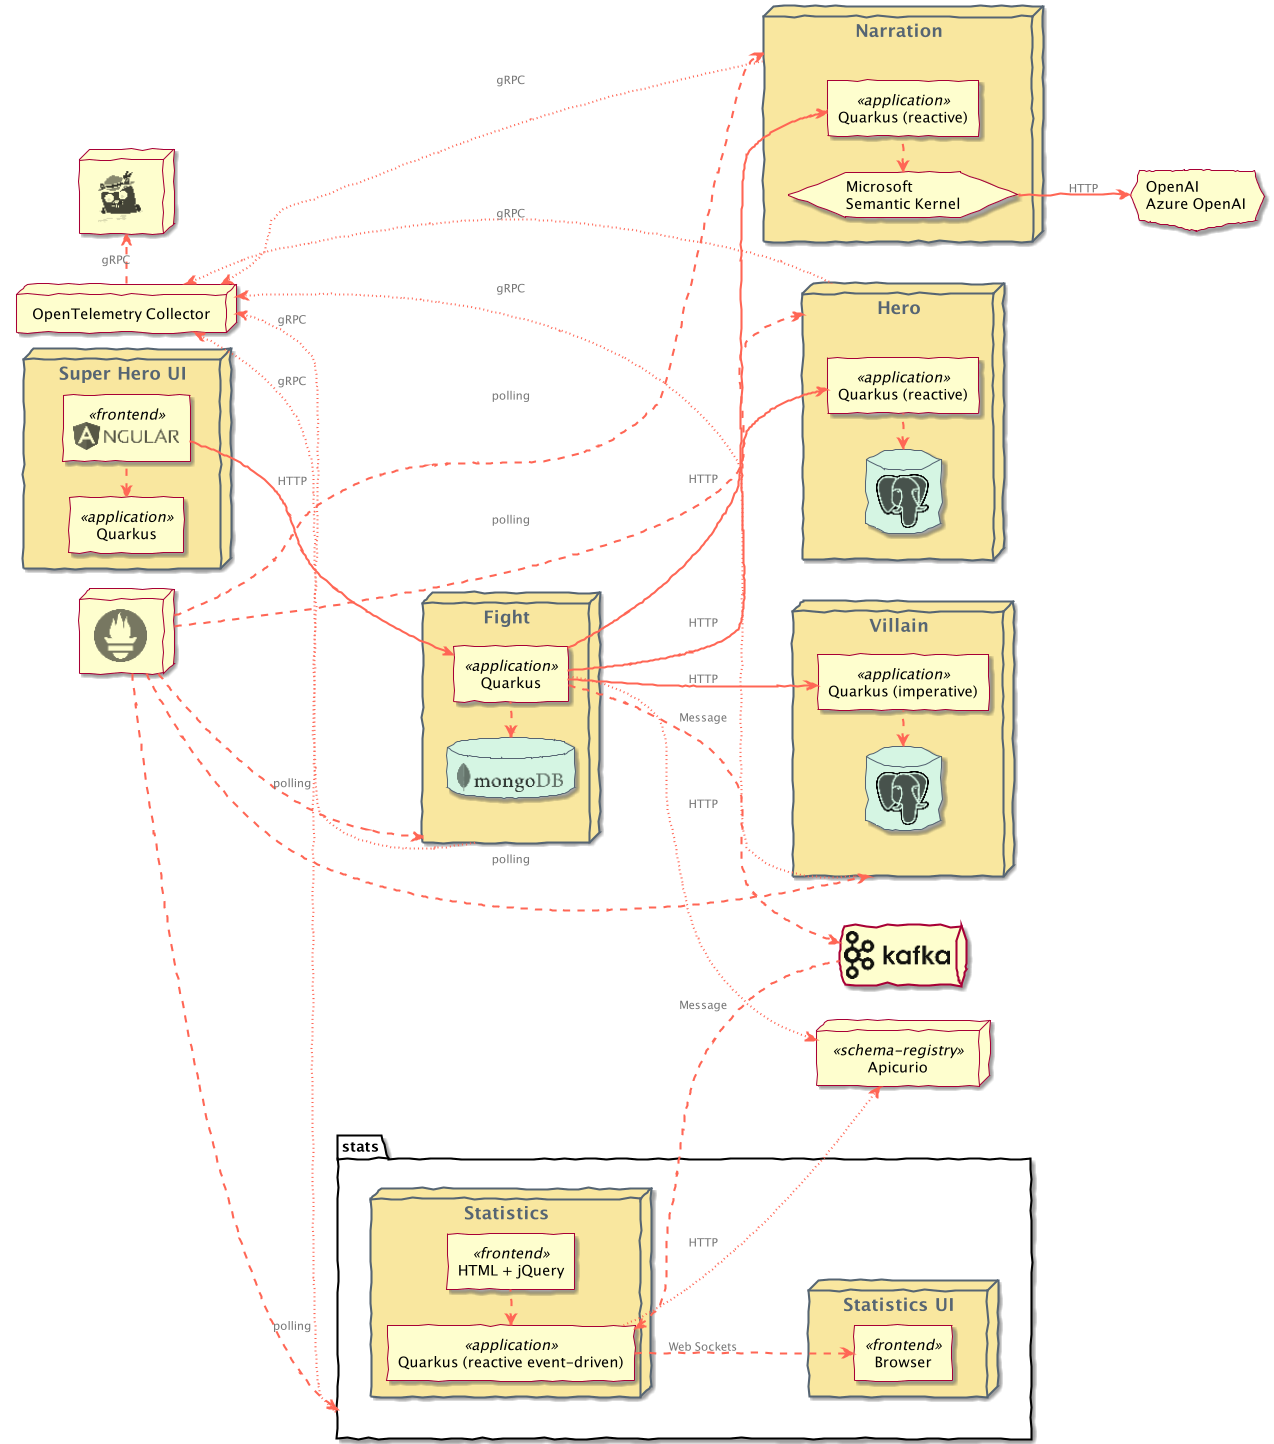
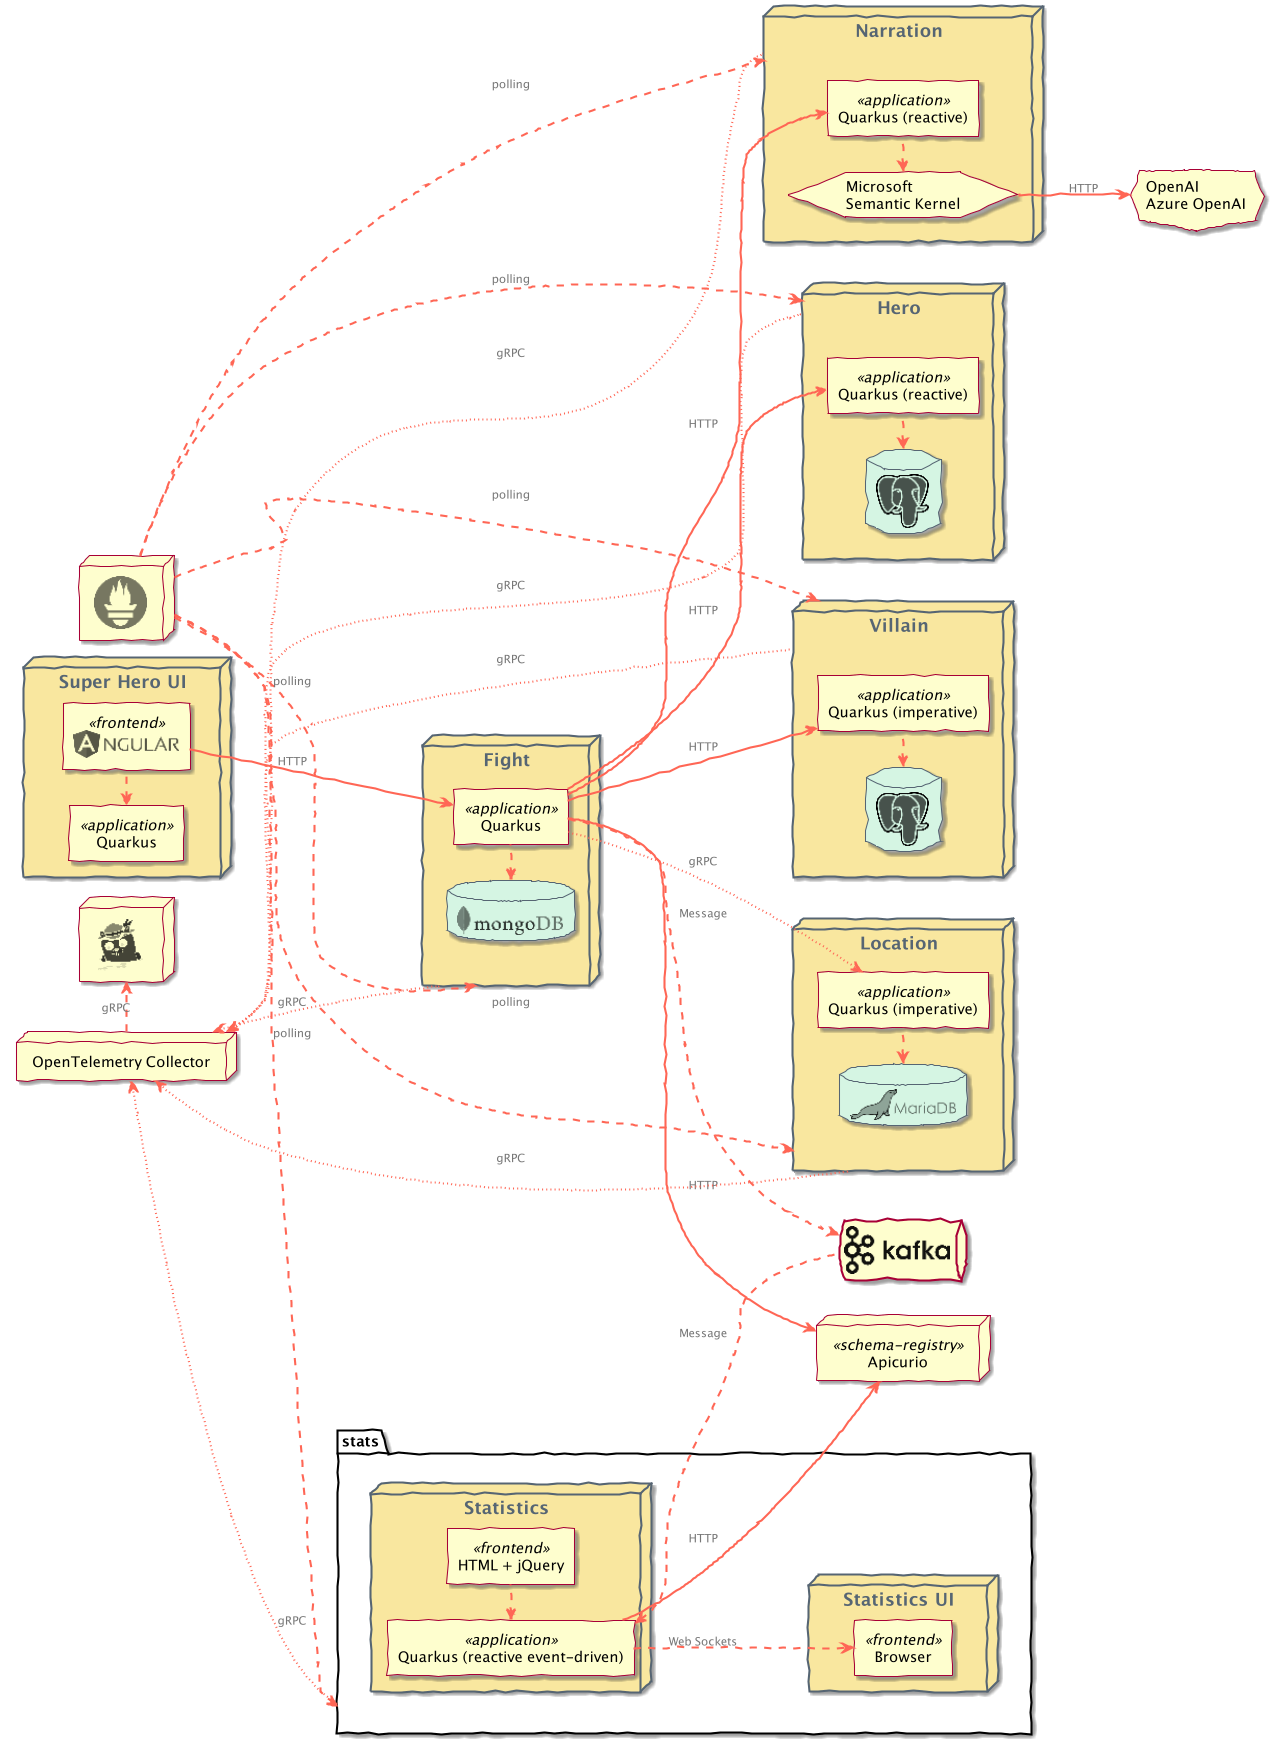
Initial connection with rest-fights

diff --git a/rest-fights/src/main/java/io/quarkus/sample/superheroes/fight/service/FightService.java b/rest-fights/src/main/java/io/quarkus/sample/superheroes/fight/service/FightService.java
@@ -26,6 +26,7 @@ import io.quarkus.sample.superheroes.fight.Fighters;
 import io.quarkus.sample.superheroes.fight.client.FightToNarrate;
 import io.quarkus.sample.superheroes.fight.client.Hero;
 import io.quarkus.sample.superheroes.fight.client.HeroClient;
+import io.quarkus.sample.superheroes.fight.client.LocationClient;
 import io.quarkus.sample.superheroes.fight.client.NarrationClient;
 import io.quarkus.sample.superheroes.fight.client.Villain;
 import io.quarkus.sample.superheroes.fight.client.VillainClient;
@@ -48,16 +49,18 @@ public class FightService {
 	private final HeroClient heroClient;
 	private final VillainClient villainClient;
   private final NarrationClient narrationClient;
+	private final LocationClient locationClient;
 	private final MutinyEmitter<io.quarkus.sample.superheroes.fight.schema.Fight> emitter;
 	private final FightConfig fightConfig;
   private final FightMapper fightMapper;
 	private final Random random = new Random();
 
-	public FightService(HeroClient heroClient, VillainClient villainClient, @RestClient NarrationClient narrationClient, @Channel("fights") MutinyEmitter<io.quarkus.sample.superheroes.fight.schema.Fight> emitter, FightConfig fightConfig, FightMapper fightMapper) {
+	public FightService(HeroClient heroClient, VillainClient villainClient, @RestClient NarrationClient narrationClient, LocationClient locationClient, @Channel("fights") MutinyEmitter<io.quarkus.sample.superheroes.fight.schema.Fight> emitter, FightConfig fightConfig, FightMapper fightMapper) {
 		this.heroClient = heroClient;
 		this.villainClient = villainClient;
     this.narrationClient = narrationClient;
-    this.emitter = emitter;
+		this.locationClient = locationClient;
+		this.emitter = emitter;
 		this.fightConfig = fightConfig;
     this.fightMapper = fightMapper;
   }
@@ -141,6 +144,20 @@ public class FightService {
     return this.narrationClient.hello()
       .invoke(hello -> Log.debugf("Got %s back from the Narration microservice", hello));
   }
+
+	@Timeout(value = 5, unit = ChronoUnit.SECONDS)
+	@Fallback(fallbackMethod = "fallbackHelloLocations")
+	@WithSpan("FightService.helloLocations")
+	public Uni<String> helloLocations() {
+		Log.debug("Pinging location service");
+		return this.locationClient.helloLocations()
+			.invoke(hello -> Log.debugf("Got %s back from the Locations microservice", hello));
+	}
+
+	Uni<String> fallbackHelloLocations() {
+		return Uni.createFrom().item("Could not invoke the Locations microservice")
+			.invoke(message -> Log.warn(message));
+	}
 
   Uni<String> fallbackHelloNarration() {
     return Uni.createFrom().item("Could not invoke the Narration microservice")

diff --git a/rest-fights/src/main/java/io/quarkus/sample/superheroes/fight/client/LocationClient.java b/rest-fights/src/main/java/io/quarkus/sample/superheroes/fight/client/LocationClient.java
@@ -1,0 +1,31 @@
+package io.quarkus.sample.superheroes.fight.client;
+
+import jakarta.enterprise.context.ApplicationScoped;
+
+import io.quarkus.grpc.GrpcClient;
+import io.quarkus.logging.Log;
+import io.quarkus.sample.superheroes.fight.client.locations.grpc.HelloReply;
+import io.quarkus.sample.superheroes.fight.client.locations.grpc.HelloRequest;
+import io.quarkus.sample.superheroes.fight.client.locations.grpc.Locations;
+
+import io.opentelemetry.api.trace.SpanKind;
+import io.opentelemetry.instrumentation.annotations.WithSpan;
+import io.smallrye.mutiny.Uni;
+
+@ApplicationScoped
+public class LocationClient {
+	private final Locations locationClient;
+
+	public LocationClient(@GrpcClient("locations") Locations locationClient) {
+		this.locationClient = locationClient;
+	}
+
+	@WithSpan(kind = SpanKind.CLIENT, value = "LocationClient.helloLocations")
+	public Uni<String> helloLocations() {
+		Log.debug("Making request to location service");
+
+		return this.locationClient.hello(HelloRequest.newBuilder().build())
+			.map(HelloReply::getMessage)
+			.invoke(hello -> Log.debugf("Got response back from location service: %s", hello));
+	}
+}

diff --git a/rest-fights/src/main/java/io/quarkus/sample/superheroes/fight/rest/FightResource.java b/rest-fights/src/main/java/io/quarkus/sample/superheroes/fight/rest/FightResource.java
@@ -178,4 +178,17 @@ public class FightResource {
   public Uni<String> helloNarration() {
     return this.service.helloNarration();
   }
+
+	@GET
+	@Produces(TEXT_PLAIN)
+	@Path("/hello/locations")
+	@Tag(name = "hello")
+	@Operation(summary = "Ping Locations hello")
+	@APIResponse(
+		responseCode = "200",
+		description = "Ping Locations hello"
+	)
+	public Uni<String> helloLocations() {
+		return this.service.helloLocations();
+	}
 }

diff --git a/grpc-locations/README.md b/grpc-locations/README.md
@@ -18,7 +18,7 @@ Additionally, this application favors constructor injection of beans over field 
 ![grpc-locations](images/grpc-locations.png)
 
 ### Exposed Endpoints
-Since this is a gRPC service, the protobuf definition can be [found here](src/main/proto/locationservice.proto).
+Since this is a gRPC service, the protobuf definition can be [found here](src/main/proto/locationservice-v1.proto).
 
 ## Benchmarking with Hyperfoil
 Hyperfoil doesn't yet support gRPC. [This issue](https://github.com/Hyperfoil/Hyperfoil/issues/281) is currently tracking it.
